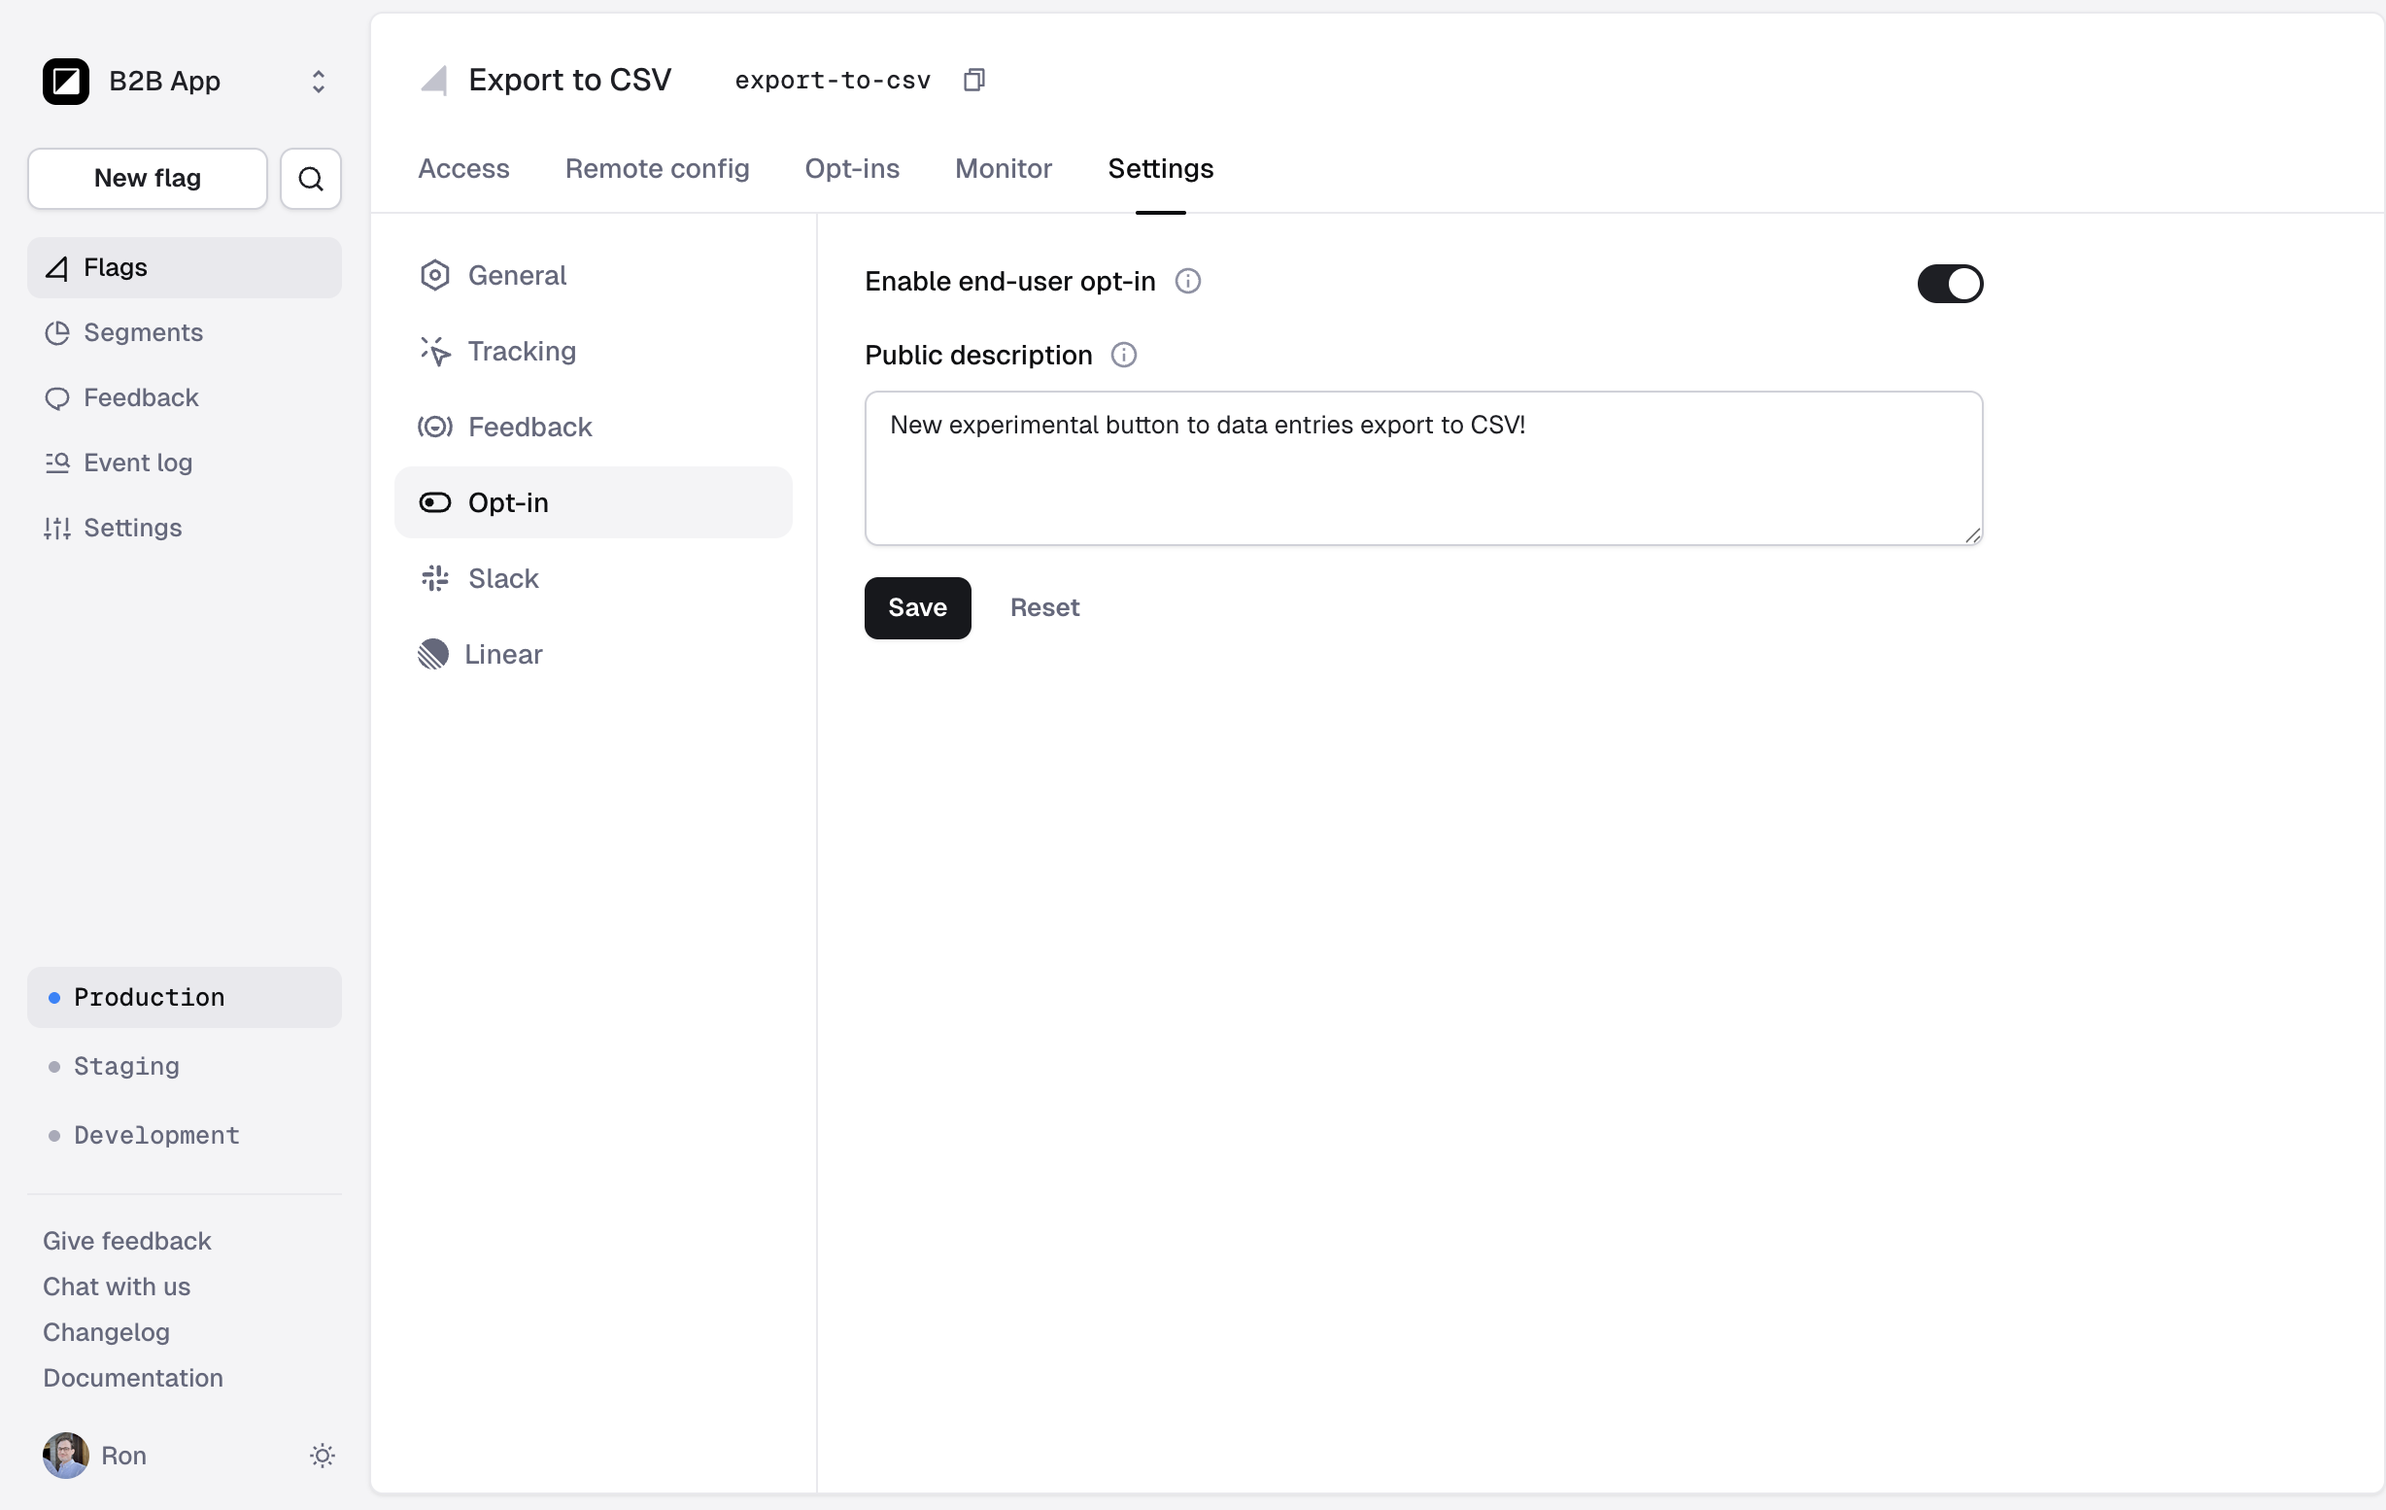
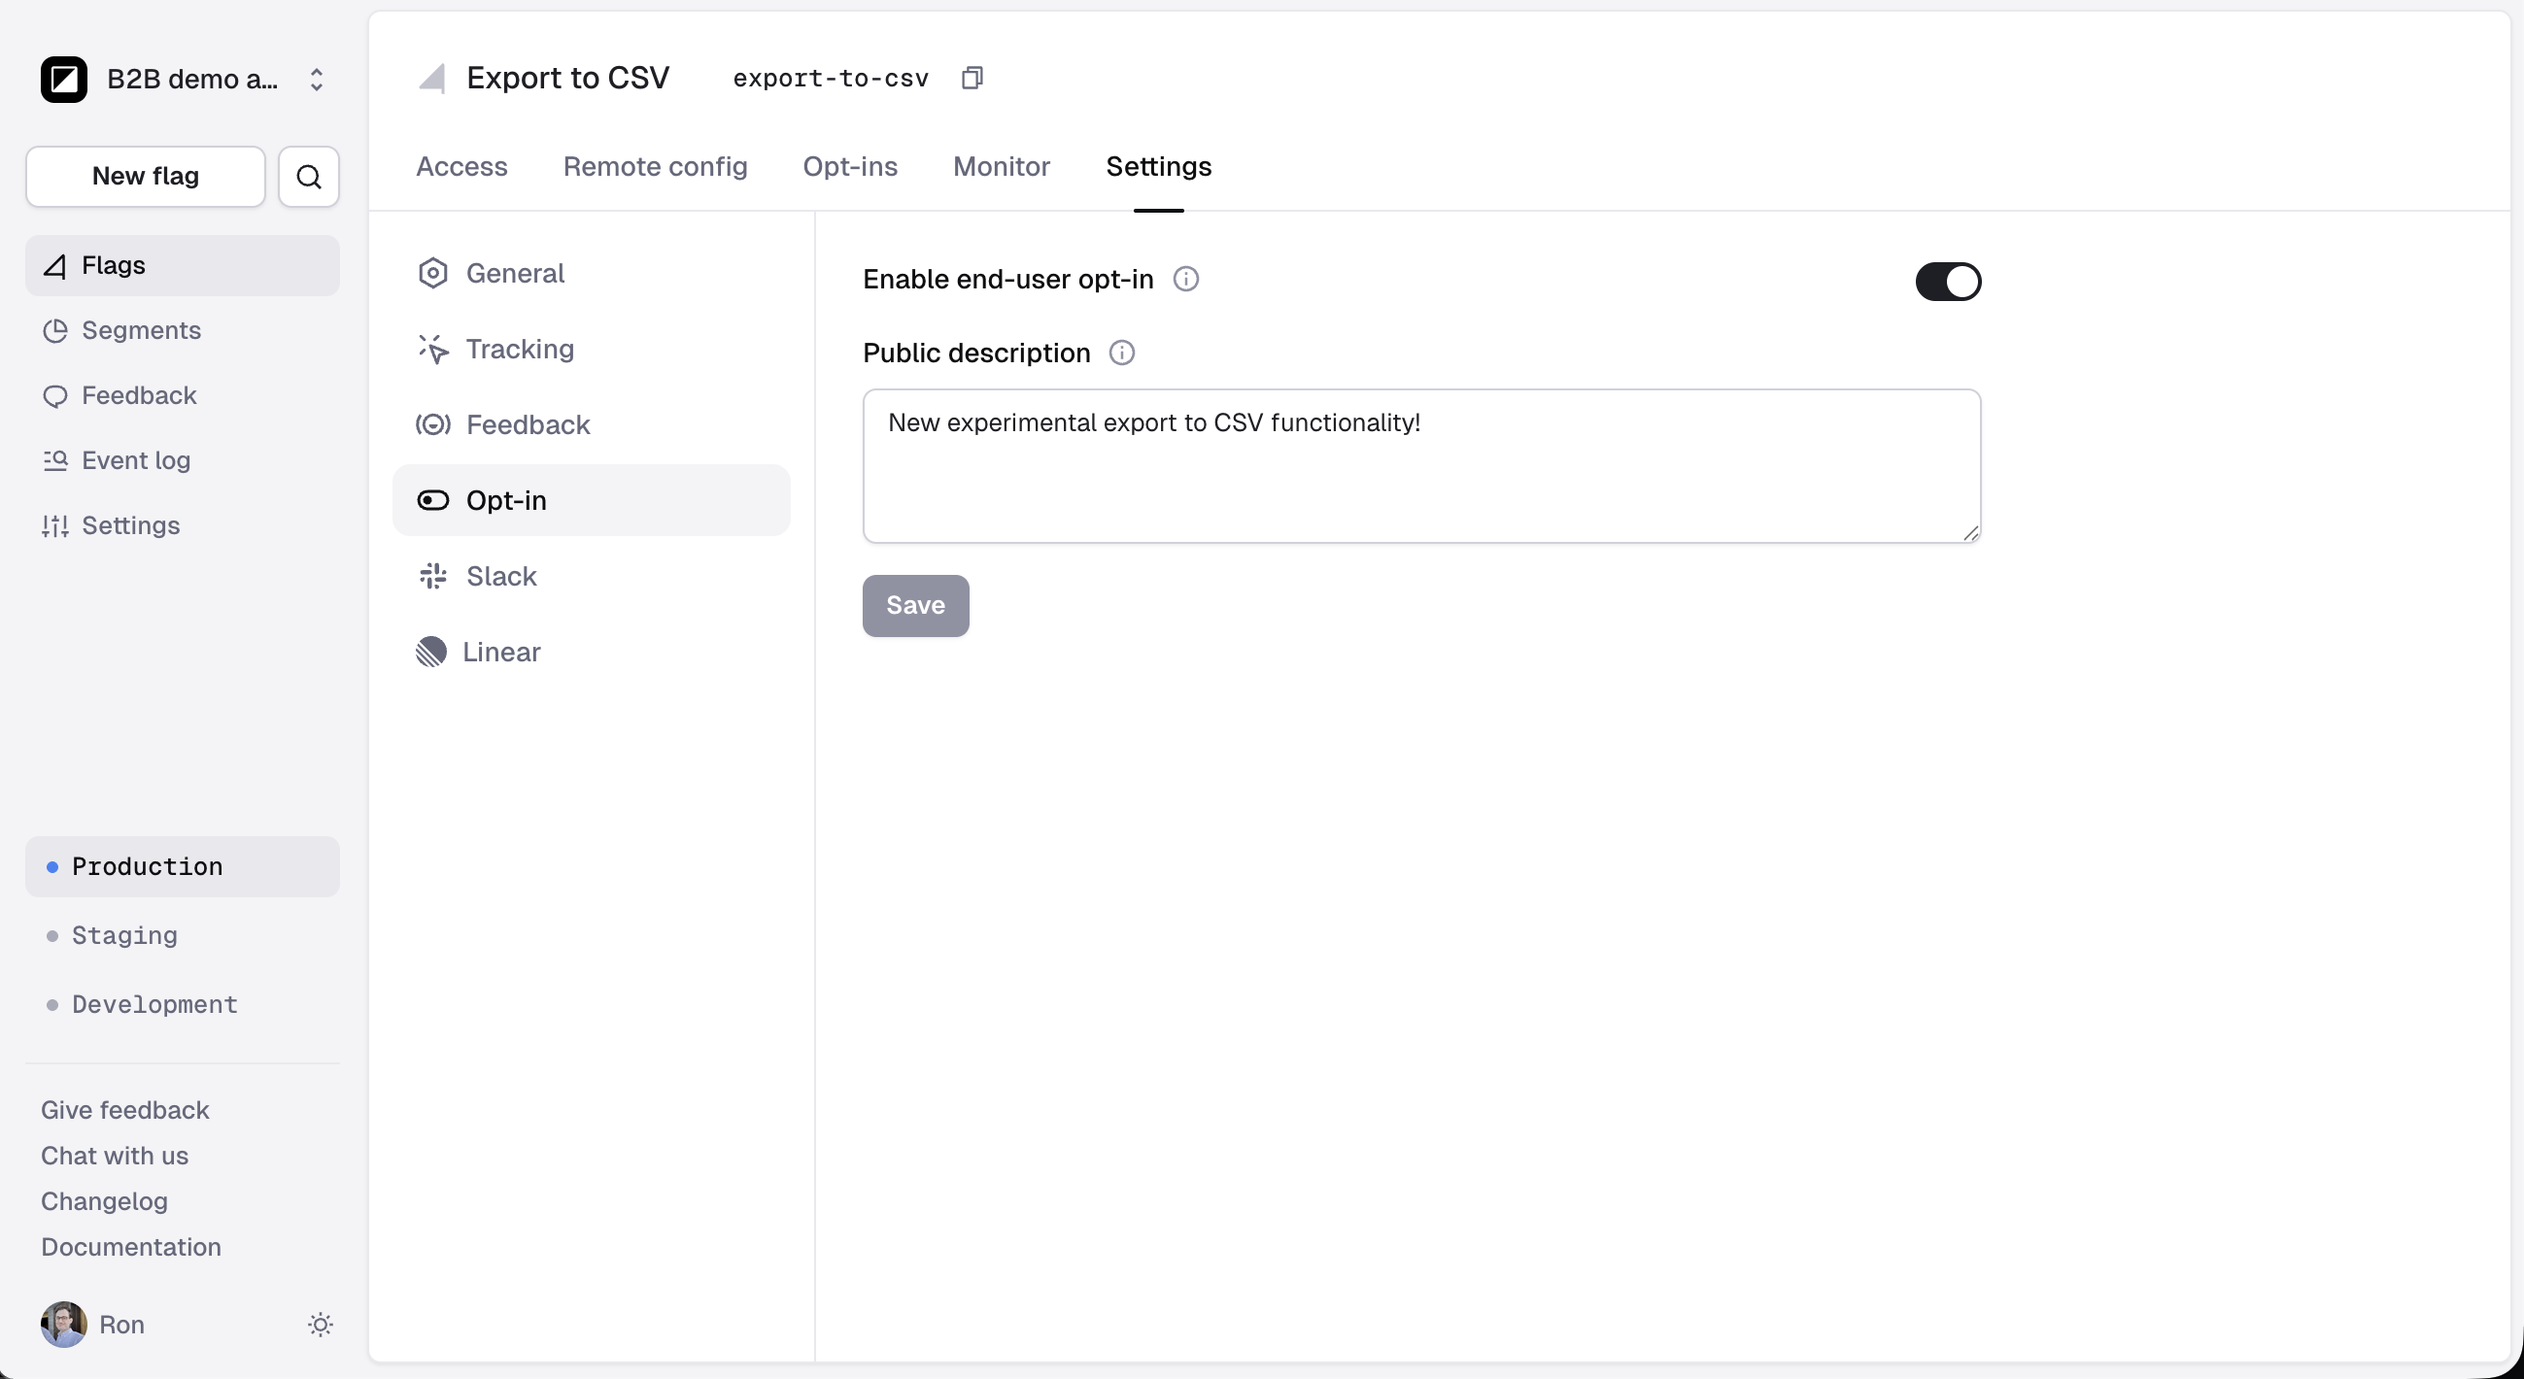
Use light mode opt-in settings screenshot

diff --git a/product-handbook/end-user-opt-in.md b/product-handbook/end-user-opt-in.md
@@ -60,8 +60,6 @@ The public description is exposed through Reflag's client-side SDKs. You can dis
 End-user opt-in cannot be enabled for secret flags. Opt-ins are submitted directly from a browser or client using a publishable key, so the flag must be publicly available.
 {% endhint %}
 
-<figure><img src="../.gitbook/assets/end-user-opt-in-settings-help.png" alt="Help text explaining the behavior and limitations of end-user opt-in"><figcaption><p>The setting's help text summarizes how disabling opt-in affects stored memberships.</p></figcaption></figure>
-
 Opt-in is enabled at the flag level, but access is configured separately for each environment. In every environment where users should be able to opt in, ensure that **Access** is set to **Some**, rather than **No one**.
 
 When you enable opt-in while the current environment is set to **No one**, Reflag changes its access setting to **Some**.
